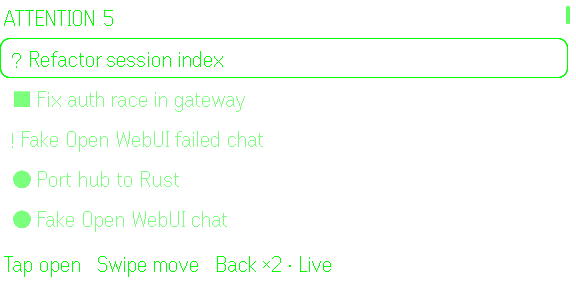
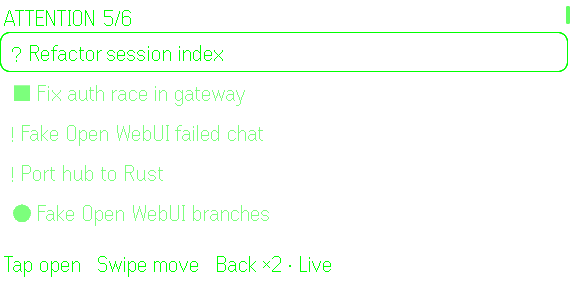
fix(reply): classify direct corrections as challenges
A user question answered with an explicit correction (No —, Actually, Not quite) is a challenge, not a failure, even when the reply contains cannot/isn't wording. Strip Markdown emphasis before gate heuristics and refresh the G2 inbox screenshot.

diff --git a/packages/hub/src/services/reply-service.test.ts b/packages/hub/src/services/reply-service.test.ts
@@ -362,6 +362,62 @@ describe("ReplyService gate", () => {
     expect(result.kind).toBe("failure");
     expect(fetchMock).toHaveBeenCalledTimes(1);
   });
+
+  it("treats a direct correction as a challenge, not a failure", async () => {
+    const data = [
+      textMessage(
+        "m1",
+        "user",
+        "Does running it over SSH cause the delay? It works without delay locally.",
+      ),
+      textMessage(
+        "m2",
+        "assistant",
+        "Short answer: no — SSH isn't in the audio path, so it can't add latency by itself. Check the local environment instead.",
+      ),
+    ];
+    const fetchMock = vi.fn(async () =>
+      roleCompletion({
+        answer: "Check the local environment.",
+        opposite: "Test the SSH launch again.",
+        ask: "Should I compare the two launch environments first?",
+      }),
+    );
+    vi.stubGlobal("fetch", fetchMock);
+
+    const service = new ReplyService(settings(), sessions(data), logger);
+    const result = await service.list("desktop-opencode:ses_1", "reply");
+
+    expect(result.state).toBe("reply");
+    expect(result.kind).toBe("challenge");
+    expect(fetchMock).toHaveBeenCalledTimes(1);
+  });
+
+  it("keeps a failure when the user asks why it failed", async () => {
+    const data = [
+      textMessage("m1", "user", "Why did the build fail?"),
+      textMessage(
+        "m2",
+        "assistant",
+        "The build failed: missing dependency. I cannot continue.",
+      ),
+    ];
+    const fetchMock = vi.fn(async () =>
+      roleCompletion({
+        answer: "Install the missing dependency.",
+        opposite: "Stop and check the lockfile.",
+        ask: "Should I check the lockfile first?",
+      }),
+    );
+    vi.stubGlobal("fetch", fetchMock);
+
+    const service = new ReplyService(settings(), sessions(data), logger);
+    const result = await service.list("desktop-opencode:ses_1", "reply");
+
+    expect(result.state).toBe("reply");
+    expect(result.kind).toBe("failure");
+    expect(fetchMock).toHaveBeenCalledTimes(1);
+  });
 });
 
 describe("ReplyService moment", () => {

diff --git a/packages/hub/src/services/reply-service.ts b/packages/hub/src/services/reply-service.ts
@@ -881,6 +881,12 @@ function buildMomentContext(input: {
     lastUser.length > 0 &&
     /\?\s*$/.test(lastUser) &&
     /\b(but|why|however|disagree|wrong|not sure|concern)\b/i.test(lastUser);
+  const directCorrection =
+    lastUser.length > 0 &&
+    /\?/.test(lastUser) &&
+    /^(?:short answer:\s*)?(?:no\s*[—–:,.!-]|nope\b|not quite\b|actually\b|that'?s not\b|it isn'?t\b|it wasn'?t\b)/i.test(
+      sanitized.trim(),
+    );
   const actionSentence = extractActionSentence(recentText);
   const approval = isApprovalText(
     question?.text ?? pendingFromText ?? actionSentence ?? lastSentence,
@@ -900,10 +906,10 @@ function buildMomentContext(input: {
   } else if (actionNeeded) {
     state = "reply";
     kind = approval ? "approval" : "delivery";
-  } else if (failure) {
+  } else if (failure && !directCorrection) {
     state = "reply";
     kind = /blocked/i.test(lastAssistantText) ? "blocker" : "failure";
-  } else if (challenge) {
+  } else if (challenge || directCorrection) {
     state = "reply";
     kind = "challenge";
   } else if (delivered && offer) {
@@ -1012,6 +1018,7 @@ function sanitizeGateText(text: string): string {
     .replace(/https?:\/\/\S+/g, " ")
     .replace(/"[^"]{0,200}"/g, " ")
     .replace(/“[^”]{0,200}”/g, " ")
+    .replace(/\*\*|__/g, "")
     .replace(/\s+/g, " ")
     .trim();
 }

diff --git a/docs/reply-audit.md b/docs/reply-audit.md
@@ -36,7 +36,7 @@ For one session and mode (`reply` or `choices`):
   it;
 - every generated option, with `model`, `agent`, or `canned` provenance and a
   role (`answer`, `opposite`, `ask`). The opposite is labelled `Alt: …`; the
-  ask is a question.
+  ask is labelled `Ask: …`.
 - a **Pending question** block when the latest assistant message contains a
   provider-native `question` tool part. It shows the question header, full text,
   and every option with its description. Text questions use the same block.
@@ -50,9 +50,14 @@ The hub classifies the moment before calling the model:
 
 | State | When | Model call |
 |---|---|---|
-| `reply` | Pending question/approval, failure/blocker, explicit next action, delivery with an offer, or a challenge | Yes |
+| `reply` | Pending question/approval, failure/blocker, explicit next action, delivery with an offer, or a challenge/direct correction | Yes |
 | `wait` | Agent running with no ask | No |
 | `done` | Finished delivery with no ask or action | No |
+
+A direct correction (`No — …`, `Actually …`, `Not quite …`) to a user question
+is classified as `challenge`, not `failure`, even when the reply contains words
+like `can't` or `isn't`. Genuine failures still win when the user asks why
+something failed.
 
 `wait` and `done` return the canned actions and a state field; the clients show a
 notice instead of model suggestions. This removes the largest class of bad sets:

diff --git a/docs/g2-ux-audit.md b/docs/g2-ux-audit.md
@@ -361,9 +361,10 @@ have not yet been exercised on G2 hardware.
 | 17 | Sent screen reused the session header | Sent screen header is `SENT`. |
 | 18 | Settings info looked selectable | Connection, version, and last refresh are body text, not rows. |
 
-Verification run: `pnpm typecheck`, `pnpm test` (405 passing), web build, G2
+Verification run: `pnpm typecheck`, `pnpm test` (407 passing), web build, G2
 build, hosted G2 build, browser checks driving the glass handlers through the
 phone preview, and Even Hub simulator captures of Home (including Current), Inbox,
 Settings, Reload confirmation, Chat (one-line footer), SESSION with `Stop`, and
 ANSWER. The phone surface was checked for pairing collapse and re-expansion.
-Still pending: real G2 hardware input, latency, and rendering.
+The Sonos direct-correction regression now returns `reply/challenge` instead of
+`reply/failure`. Still pending: real G2 hardware input, latency, and rendering.
